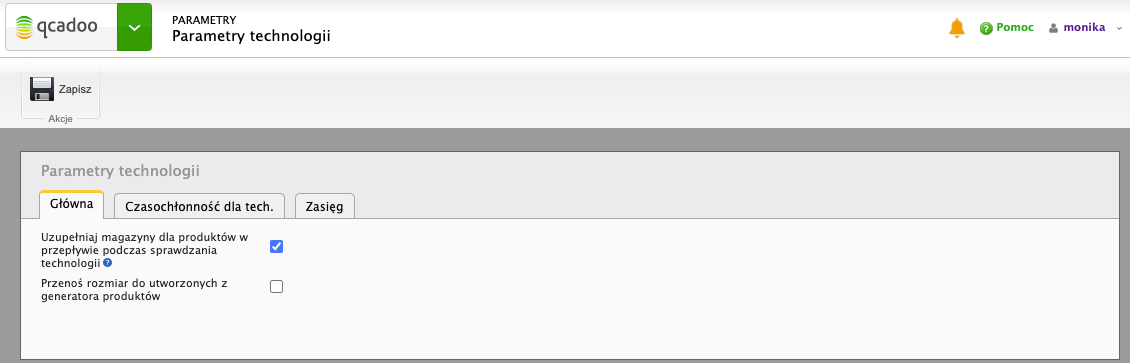
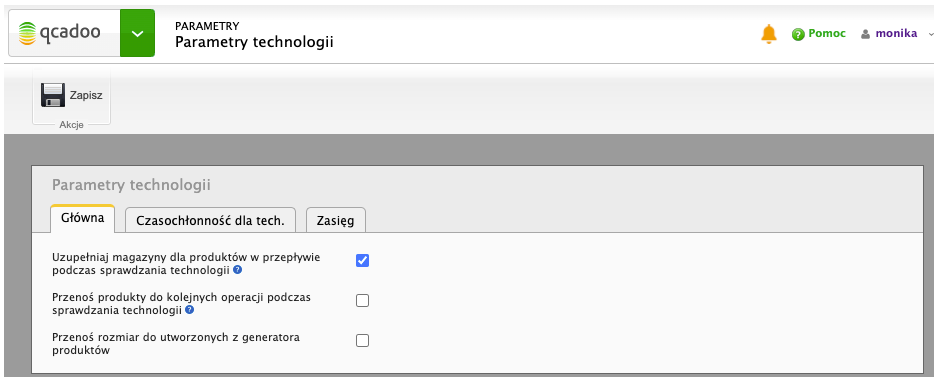
Production tracking,Cause of wastes

diff --git a/pages/rejestracja-produkcji/rejestracja-produkcji/rejestracja-produkcji.md b/pages/rejestracja-produkcji/rejestracja-produkcji/rejestracja-produkcji.md
@@ -4,54 +4,64 @@ permalink: rejestracja-produkcji.html
 ---
 Funkcja ta służy do gromadzenia informacji zwrotnych zebranych na hali produkcyjnej, dających obraz postępów w realizacji zleceń (tzw. meldunki zwrotne).
   
-W qcadoo rejestrowanie przebiegu produkcji odbywa się na jednym z trzech poziomów (szerszy opis w osobnych artykułach):
+W qcadoo rejestrowanie przebiegu produkcji odbywa się na jednym z trzech poziomów:
 
 - [podstawowy](/podstawowe-rejestrowanie-produkcji) - zbieramy dane o **ilości** pobranych i skonsumowanych produktów w zleceniu,
-- [zbiorczy](/zbiorcze-rejestrowanie-produkcji)- rejestrujemy **czas pracy** (pracowników i maszyn) nad danym zleceniem **oraz ilości** produktów w tym czasie użytych,
-- [dla każdej operacji](/rejestracja-kazdej-operacji) - dokładniejszy od zbiorczego, **czas pracy i ilości produktów** rejestrowane są w ramach **każdej operacji.** 
+- [zbiorczy](/rejestracja-produkcji)- rejestrujemy **czas pracy** (pracowników i maszyn) nad danym zleceniem **oraz ilości** produktów w tym czasie użytych,
+- [dla każdej operacji](/rejestracja-produkcji) - dokładniejszy od zbiorczego, **czas pracy i ilości produktów** rejestrowane są w ramach **każdej operacji.** 
 
 ## Jak rejestrować produkcję i wprowadzać meldunki zwrotne?
 
-Aby wykonać rejestrację produkcji w qcadoo przy zakładaniu nowego **zlecenia produkcyjnego (PLANOWANIE > Planowanie zleceń)**, w karcie **Rejestracja produkcji** należy wybrać interesujący nas sposób zbierania danych.
+Zanim rozpoczniesz raportowanie produkcji, a nawet - zanim utworzysz technologie i zlecenia produkcyjne, zajrzyj do [parametrów rejestracji produkcji](/parametry-rejestracja-produkcji). Ustaw w jakiej konfiguracji będziesz zbierał dane z produkcji. Szczególnie ważny jest parametr dotyczący sposobu rejestracji produkcji. Jeśli każde zlecenie będziesz chciał meldować tak samo: zbiorczo lub z dokładnością do operacji, ustaw odpowiednią wartość w parametrach, a my zajmiemy się resztą. Jeśli jednak część produkcji chcesz raportować zbiorczo, a część z dokładnością do operacji, wskaż odpowiednie wartości już na etapie budowania [technologii](/technologie-szczegoly). Z technologii wartość przeniesie się do zlecenia (co również możesz zmienić wchodząc w [parametry zlecenia](/zlecenia-produkcyjne.html#dodatkowe-możliwości-konfiguracji-zlecenia)), a to będzie pobierane do rejestracji. 
 
-Sposoby rejestracji meldunków: **Zbiorczy** i **Dla każdej operacji** dają możliwość określenia czy (pole po lewej stronie):
+W konfiguracji ważne jest też to, czy chcesz zbierać dane o zużytych i wytworzonych produktach, a także to, czy interesuje Cię zbieranie czasu pracy. Wyłączenie tych parametrów spowoduje ukrycie zakładek w meldunku. Pamiętaj jednak, że coś co nie zostało zaraportowane, nie może stanowić źródła danych do analizy. 
 
-- rejestrujemy produkty wejściowe i wyjściowe
-- czy rejestrujemy czasy produkcji
 
-Parametry te, według uznania, mogą być pominięte w formularzu rejestracji produkcji.
-
-{% include lightbox.html file="planowanie-%20rejestracja%20produkcji.png" alt="Parametry rejestracji produkcji" caption="Parametry rejestracji produkcji" %}
-  
-Parametry widoczne po prawej stronie:
-
-- **Jeden meldunek zbiorczy lub jeden dla każdej operacji** - jeśli zaznaczymy to pole: przy rejestracji produkcji w danym zleceniu możliwe będzie wprowadzenie JEDNEGO raportu zbiorczego lub po JEDNYM meldunku dla każdej operacji.
-- **Pozwól na zamknięcie zlecenia tylko, jeśli został wprowadzony ostatni meldunek zwrotny** - System będzie pilnował, by zlecenie produkcyjne nie zostało zamknięte bez ostatniego meldunku zwrotnego
-- **Ostatni meldunek zamyka automatycznie zlecenie** - Wprowadzenie ostatniego meldunku zwrotnego będzie jednoznacznie kończyło zlecenie produkcyjne.
-
-{% include callout.html content="Jeśli przy **Rejestracji produkcji** chcemy zawsze gromadzić te same dane, to w **Administracji** (pozycja menu) należy wybrać **Parametry**, a następnie zakładkę **Rejestracja produkcji** i zaznaczyć interesujące nas preferencje." type="info" %} 
-
-## Aby wprowadzić meldunek zwrotny wybierz:
+Aby wprowadzić meldunek zwrotny wybierz:
 
 **REJESTRACJA >> Rejestracja produkcji >> {% include inline_image.html file="newIcon24.png" alt="Przycisk Dodaj nowe zlecenie" %} Dodaj nowy**
 
 {% include lightbox.html file="rejestracja-%20rejestracja%20produkcji.png" alt="Rejestracja produkcji" caption="Rejestracja produkcji" %}
 
-1. W pierwszym kroku przy użyciu {% include inline_image.html file="lupka.png" %} wybieramy "Zlecenie produkcyjne", które chcemy zarejestrować. Po wybraniu zlecenia, pole "Linia produkcyjna" wypełni się automatycznie.
+1. W pierwszym kroku przy użyciu {% include inline_image.html file="lupka.png" %} wybierz "Zlecenie produkcyjne", które chcesz zarejestrować. Po wybraniu zlecenia, pole "Linia produkcyjna" wypełni się automatycznie.
 
-2. Następnie, jeżeli wybraliśmy sposób rejestracji meldunku "dla każdej operacji", należy wybrać "Operację". W przypadku rejestracji w sposób zbiorczy pole to pozostaje niewidoczne.
+2. Następnie, jeżeli zlecenie ma sposób rejestracji meldunku "dla każdej operacji", należy wybrać "Operację". W przypadku rejestracji w sposób zbiorczy pole to pozostaje niewidoczne.
 
-3. {% include inline_image.html file="zapisz.png" alt="Przycisk Zapisz" %} **Zapisz**. Po zapisaniu danych uaktywnią nam się dane w następnej karcie **Produkty we./wyj.**
+3. {% include inline_image.html file="zapisz.png" alt="Przycisk Zapisz" %} **Zapisz**. Po zapisaniu danych uaktywnią się dane w następnej karcie **Produkty we./wyj.**
 
 {% include lightbox.html file="rejestracja%20produkcji%20produkty%20wej%C5%9Bcia-%20wyj%C5%9Bcia.png" alt="Rejestracja produkcji - produkty" caption="Rejestracja produkcji - produkty" %}  
 
-4. Kolejno należy wypełnić dane dotyczące ilości zużytych materiałów ("Podana ilość"). Informacje te możemy wprowadzić ręcznie w oparciu o otrzymane z hali produkcyjnej karty pracy (meldunki zwrotne) lub skopiować ilości z planowanych {% include inline_image.html file="copyIcon24.png" alt="Przycisk Kopiuj" %}  
-  
-5. Ponownie zapisujemy dane {% include inline_image.html file="zapisz.png" alt="Przycisk Zapisz" %} **Zapisz** i przechodzimy do następnej zakładki **Czas pracy** , gdzie będziemy rejestrować czas pracy maszyn oraz pracowników.
+{:start="4"}
+4. Zacznij od wypełnienia ilości dla produktów wytwarzanych w tabeli **Produkty wyjściowe**:
 
-Po wprowadzeniu i zapisaniu wszystkich informacji możemy zaakceptować taki meldunek. Aby to zrobić wybieramy przycisk {% include inline_image.html file="startIcon24.png" alt="Przycisk Zapisz" %} **Akceptuj**, wówczas nie możemy już wprowadzać żadnych zmian. 
+{% include lightbox.html file="rejestracjaProduktWyjsciowy.png" alt="Rejestracja produkcji - produkt wyjściowy" caption="Rejestracja produkcji - produkt wyjściowy" %} 
 
-Jeżeli dany meldunek jest ostatnim meldunkiem wprowadzanym dla danej operacji bądź zlecenia, w zakładce **"Główna"** zaznaczamy "Końcowy".
+Podaj ilość wytworzonych produktów o najwyższej jakości w polu **Wyprodukowana ilość w jedn. podst.**. Jeśli potrzebujesz użyć innej jednostki niż jednostka podstawowa produktu - użyj pola **Wyprodukowana ilość w jedn. dok.** i podaj w jakiej jednostce ją wyrażasz (pamiętaj, że produkt musi mieć zdefiniowane przeliczniki między tymi jednostkami). Jeśli wytworzono produkty niepełnowartościowe, takie, które nie nadają się do dalszej obróbki czy sprzedaży klientowi, podaj ilość w polu **brak**. Dodatkowo możesz wypełnić co spowodowało brak, korzystając z listy zdefiniowanej w słowniku [Przyczyny braków](/slowniki).
+
+{% include callout.html content="Pozostawione w meldunku przyczyny braków przeanalizujesz w [analizie wykonanej produkcji](/analiza-wykonanej-produkcji) " type="info" %} 
+
+{:start="5"}
+5. Jeśli w parametrach rejestracji masz zaznaczony: **Zużycie surowców na podstawie norm** to na podstawie sumy ilości wyprodukowanej i braków zostanie wyznaczone zużycie surowców. Jeśli chcesz podać je ręcznie przejdź do tabeli **Produkty wejściowe** i w każdym zużytym surowcu określ właściwą ilość. 
+
+{% include lightbox.html file="rejestracjaProduktWejsciowy.png" alt="Rejestracja produkcji - produkt wejściowy" caption="Rejestracja produkcji - produkt wejściowy" %} 
+
+Możesz skorzystać też z opcji kopiowania ilości z planowanych {% include inline_image.html file="copyIcon24.png" alt="Przycisk Kopiuj" %}  
+
+{% include callout.html content="Listę produktów widocznych w meldunku warunkuje sposób rejestracji produkcji i magazyny zdefiniowane w [przepływach technologii](/technologie-szczegoly.html#przepływy-technologii). Dla rejestracji zbiorczej widoczne są wszystkie surowce i produkt finalny, a także te półprodukty, które mają być przyjmowane na magazyn. Dla rejestracji do każdej operacji widoczne są wszystkie produkty wejściowe i wyjściowe danej operacji. " type="info" %} 
+
+{:start="6"}
+6. Teraz możesz przejść do następnej zakładki **Czas pracy** , gdzie zarejestrujesz czas pracy maszyn oraz pracowników.
+
+{% include lightbox.html file="rejestracjaRejestracjaProdukcjiCzasPracy.png" alt="Rejestracja produkcji - czas pracy" caption="Rejestracja produkcji - czas pracy" %} 
+
+Możesz albo podać listę pracowników pracujących na rzecz zlecenia / operacji i dla nich zsumować czas pracy, albo, gdy nie zależy Ci na tak szczegółowym podejściu, wprowadzić od razu czas zagregowany.
+
+{% include callout.html content="Kliknij przycisk **Oblicz sumaryczny czas pracowników**, a wyliczymy dla Ciebie jak długo pracownicy pracowali na rzecz zlecenia. Możesz też w parametrach rejestracji zaznaczyć **Przeliczaj sumę czasu pracowników na akceptacji meldunku**, a zawsze przy akceptacji będziemy przeliczać sumę. Ta wartość jest potrzebna między innymi do rozliczenia produkcji.  " type="info" %} 
+
+Po wprowadzeniu i zapisaniu wszystkich informacji możesz zaakceptować taki meldunek. Aby to zrobić wybieramy przycisk {% include inline_image.html file="startIcon24.png" alt="Przycisk Zapisz" %} **Akceptuj**, wówczas nie możemy już wprowadzać żadnych zmian. 
+
+Jeżeli dany meldunek jest ostatnim meldunkiem wprowadzanym dla danej operacji bądź zlecenia, w zakładce **"Główna"** zaznacz "Końcowy". Dzięki temu zlecenie produkcyjne zostanie z automatu zakończone (jeśli tylko [parametr rejestracji](/parametry-rejestracja-produkcji) Ostatni meldunek zamyka automatycznie zlecenie? = tak). 
+
 
 ## Jak zarejestrować wykorzystany zamiennik?
 

diff --git a/pages/parametry/parametry-technologii/parametry-technologia.md b/pages/parametry/parametry-technologii/parametry-technologia.md
@@ -13,7 +13,9 @@ W zakładce Główna znajdują się ogólne parametry do technologii.
 
 1. **Uzupełniaj magazyny dla produktów w przepływie podczas sprawdzania technologii** - zaznacz parametr jeśli chcesz, abyśmy z automatu (podczas sprawdzania technologii) wywoływali funkcję uzupełniania magazynów w zakładce _Przepływ_ w technologii. Nie będziesz musiał wtedy klikać każdorazowo przycisku _Uzupełnij magazyny w produktach_. Pamiętaj, że gdy w procesie korzystasz z różnych magazynów (do jednej operacji pobierasz produkty z różnych lokalizacji) to zaznaczenie tego parametru nie jest dobrym pomysłem - sprawdzenie technologii spowoduje nadpisanie Twoich ręcznych zmian w przepływach, wartościami domyślnymi.
 
-2. **Przenoś rozmiar do utworzonych z generatora produktów** - jeśli zaznaczysz parametr, to wszystkie półprodukty z automatu utworzone przez generator dostaną takie rozmiary, jak wyrób dla którego tworzona jest technologia
+2. **Przenoś produkty do kolejnych operacji podczas sprawdzania technologii** - zaznacz parametr a na etapie sprawdzania technologii wywołamy funkcję Przenoś produkty do kolejnej operacji. Pozwoli to na szybsze definiowanie technologii - produkty wyjściowe operacji z automatu zostaną wrzucone jako wejście do operacji następnej.
+
+3. **Przenoś rozmiar do utworzonych z generatora produktów** - jeśli zaznaczysz parametr, to wszystkie półprodukty z automatu utworzone przez generator dostaną takie rozmiary, jak wyrób dla którego tworzona jest technologia
 
 ---
 

diff --git a/pages/technologie/technologie/technologie-szczegoly.md b/pages/technologie/technologie/technologie-szczegoly.md
@@ -211,7 +211,7 @@ Jeśli mamy pewność wprowadzonych danych możemy od razu nadać jej status {% 
 
 Więcej o [Stanach technologii](/statusy-technologii)
 
-{% include callout.html content='Wprowadzając produkty należy pamiętać, że produkt wyjściowy w operacji podrzędnej musi być użyty w kolejnej operacji jako jeden z produktów wejściowych. Aby przyspieszyć definiowanie, wprowadź produkty będące efektami operacji w drzewie i użyj przycisku **Przenieś produkty do kolejnych operacji**, a załączymy je jako produkty wejściowe do operacji kolejnych ' type="warning" %}
+{% include callout.html content='Wprowadzając produkty należy pamiętać, że produkt wyjściowy w operacji podrzędnej musi być użyty w kolejnej operacji jako jeden z produktów wejściowych. Aby przyspieszyć definiowanie, wprowadź produkty będące efektami operacji w drzewie i użyj przycisku **Przenieś produkty do kolejnych operacji**, a załączymy je jako produkty wejściowe do operacji kolejnych. Możesz też w [parametrach technologii](/parametry-technologia) zaznaczyć parametr _Przenoś produkty do kolejnych operacji podczas sprawdzania technologii_, a za każdym razem przy sprawdzaniu technologii funkcja ta będzie wywoływana. ' type="warning" %}
 
 {% include callout.html content='Z każdej operacji może powstać tylko jedna pozycja w polu "Produkt wyjściowy". Jeśli wpiszemy tam więcej produktów, pozostałe zostaną potraktowane jako odpad.' type="warning" %}
 

diff --git a/pages/analizy/rozliczenie-produkcji.md b/pages/analizy/rozliczenie-produkcji.md
@@ -9,7 +9,7 @@ Rozliczanie produkcji przynosi dwie korzyści.
 
 Funkcjonalność "**Rozliczenie produkcji**" pozwala również na tworzenie i gromadzenie raportów i zestawień z rejestracji produkcji (dla wariantów: "zbiorczego" i "dla każdej operacji"). 
   
-{% include callout.html content="Gdy tworzymy raport rozliczenia produkcji dla danego zlecenia/zleceń produkcyjnego/produkcyjnych, bierzemy pod uwagę tylko zarejestrowane meldunki zwrotne (patrz odpowiednio: [Zbiorcze rejestrowanie produkcji](/zbiorcze-rejestrowanie-produkcji) i [Rejestracja każdej operacji](/rejestracja-kazdej-operacji)) w stanie **Zaakceptowane**." type="info" %} 
+{% include callout.html content="Gdy tworzymy raport rozliczenia produkcji dla danego zlecenia/zleceń produkcyjnego/produkcyjnych, bierzemy pod uwagę tylko [zarejestrowane meldunki zwrotne](/rejestracja-produkcji) w stanie **Zaakceptowane**." type="info" %} 
 
 ## Jak wygenerować raport rozliczenia produkcji?
 

diff --git a/pages/dane-podstawowe/slowniki.md b/pages/dane-podstawowe/slowniki.md
@@ -9,6 +9,7 @@ Słowniki pomagają indywidualnie zdefiniować pojęcia dla wielu opcji, które 
 Dostępne są następujące słowniki:
 
 - **Kategorie produktów** - stosowane w [Produktach](/produkty)
+- **Przyczyny braków** - wykorzystywane podczas raportowania produkcji w [terminalu](/terminal) i [rejestracji standardowej](/rejestracja-produkcji)
 - **Jednostki** - jednostki miar i wag stosowane w [Produktach](/produkty)
 - **Miejsca linii produkcyjnych** - stosowane przy definiowaniu [Linii produkcyjnych](/linie-produkcyjne)
 - **Miejsca linii produkcyjnych przesyłane do SCADY**

diff --git a/pages/rejestracja-produkcji/rejestracja.md b/pages/rejestracja-produkcji/rejestracja.md
@@ -6,9 +6,7 @@ Dzięki funkcjonalności "Rejestracja" możemy rejestrować to co dzieje się z 
 
 - [przestoje](/przestoje)
 - [rejestrację produkcji](/rejestracja-produkcji)
-- [terminal](/terminal)
-- [rozliczenie produkcji](rozliczenie-produkcji)  
-- [wydruki rekordów produkcji](/meldunki-zwrotne)  
+- [terminal](/terminal) 
 
 
 
